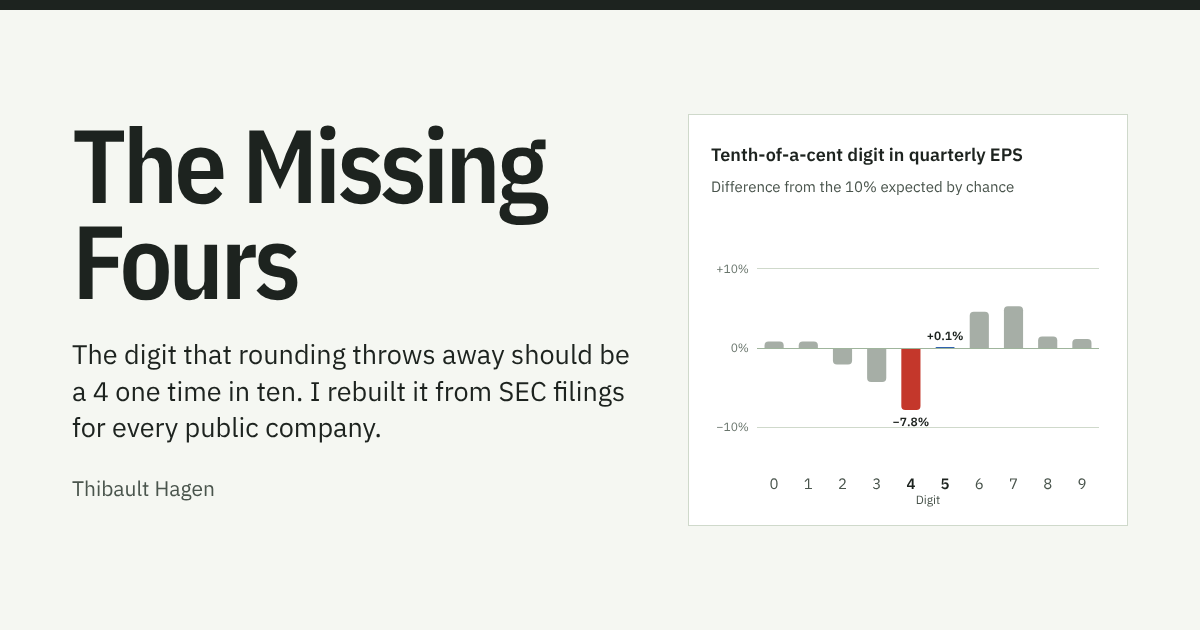
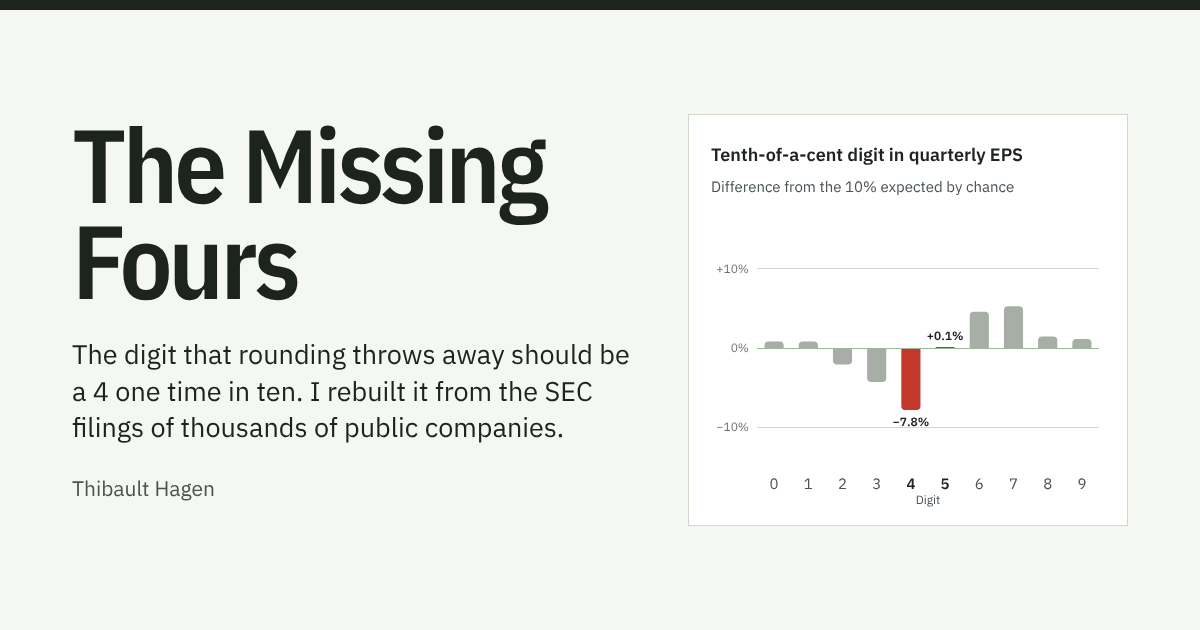
Show rebuild dates in local time, tighten wording, update README and preview image

Changed region(s): [[0.0617, 0.6032, 0.5242, 0.6937]]

diff --git a/site/index.html b/site/index.html
@@ -4,10 +4,10 @@
 <meta charset="utf-8">
 <meta name="viewport" content="width=device-width, initial-scale=1">
 <title>The Missing Fours</title>
-<meta name="description" content="Rebuilding the hidden tenth-of-a-cent digit in every US public company's earnings per share, to see whether companies round their way to the next penny.">
+<meta name="description" content="Rebuilding the hidden tenth-of-a-cent digit in U.S. public companies' earnings per share from SEC filings, to see whether companies round their way to the next penny.">
 <meta property="og:type" content="website">
 <meta property="og:title" content="The Missing Fours">
-<meta property="og:description" content="The digit that rounding throws away should be 4 one time in ten. I rebuilt it from SEC filings for every public company to check.">
+<meta property="og:description" content="The digit that rounding throws away should be 4 one time in ten. I rebuilt it from the SEC filings of thousands of public companies to check.">
 <meta property="og:image" content="https://thibault-hagen.github.io/missing-fours/og-image.png">
 <meta property="og:url" content="https://thibault-hagen.github.io/missing-fours/">
 <meta name="twitter:card" content="summary_large_image">
@@ -34,7 +34,7 @@
   <section class="wrap hero">
     <div>
       <h1>The Missing Fours</h1>
-      <p class="lede" id="lede">Companies report earnings per share rounded to the cent. I rebuilt the unrounded number from SEC filings for every public company, to look at the one digit that rounding throws away. It should be a 4 one time in ten.</p>
+      <p class="lede" id="lede">Companies report earnings per share rounded to the cent. I rebuilt the unrounded number from the SEC filings of thousands of public companies, to look at the one digit that rounding throws away. It should be a 4 one time in ten.</p>
       <p class="hero-meta" id="hero-meta">Loading the latest numbers&hellip;</p>
       <p class="byline">By Thibault Hagen</p>
     </div>
@@ -49,7 +49,7 @@
     <aside class="note"><p><strong>Why only EPS of $0.10 or more.</strong> In small numbers, low digits are more common than high ones (Benford's law). From $0.10 up, the tenth of a cent is the third significant digit or later, where every digit is within 0.2 points of 10%.</p></aside>
     <p>If nobody touched the numbers, that digit would be close to random, with each of 0 through 9 turning up about 10% of the time. A shortage of 4s, with a matching surplus of 5s, is the fingerprint of rounding up on purpose.</p>
     <p>Three finance and law researchers, one of them former SEC commissioner Joseph Grundfest, named the pattern quadrophobia. Studying company reports from 1980 to 2017, they found that 4 was the rarest digit in that spot, and that companies avoiding it were more likely to restate their results later and to face SEC enforcement or shareholder lawsuits. The SEC's Division of Enforcement uses data analytics built on the same idea. Its EPS Initiative, which announced its first cases in 2020, has been reported to screen for companies with too few 4s, and its cases include Interface, Fulton Financial, Healthcare Services Group, Rollins and Gentex.</p>
-    <p>Both of those efforts rely on paid or private data. This site rebuilds the digit from public SEC filings for every company that files them, and redoes it every week.</p>
+    <p>Both of those efforts rely on paid or private data. This site rebuilds the digit from free public SEC filings, for every company whose filings contain the numbers needed, and redoes it every week.</p>
 
     <h2 id="finding-h">What the filings show</h2>
     <div class="figure" id="fig-digits">

diff --git a/site/assets/story.js b/site/assets/story.js
@@ -100,11 +100,11 @@
       // lede reacts to the result
       const short4 = q.pchi2 < 0.001 && q.share4 < 0.1 && q.p4 < 0.001;
       $("lede").textContent =
-        "Companies report earnings per share rounded to the cent. I rebuilt the unrounded number from SEC filings for every public company, to look at the one digit that rounding throws away. It should be a 4 one time in ten. " +
+        "Companies report earnings per share rounded to the cent. I rebuilt the unrounded number from the SEC filings of thousands of public companies, to look at the one digit that rounding throws away. It should be a 4 one time in ten. " +
         (short4 ? "It isn't." : "Here is how often it actually is.");
       $("hero-meta").textContent =
-        "Rebuilt from " + MF.int(q.n) + " quarterly reports by " + MF.int(S.headline.companies) + " companies, " + span + ". Last rebuilt " + MF.date(S.built.slice(0, 10)) + ".";
-      $("built").textContent = "Last rebuilt " + MF.date(S.built.slice(0, 10)) + ".";
+        "Rebuilt from " + MF.int(q.n) + " quarterly reports by " + MF.int(S.headline.companies) + " companies, " + span + ". Last rebuilt " + MF.builtDate(S.built) + ".";
+      $("built").textContent = "Last rebuilt " + MF.builtDate(S.built) + ".";
       renderTape(S);
 
       // ----- digit chart -----
@@ -347,7 +347,7 @@
         gt.append(
           P(
             "Among large accelerated filers, " + MF.pct(lg.k4 / lg.n, 2) + " of quarters end in a 4; among non-accelerated filers, " + MF.pct(sm.k4 / sm.n, 2) + "." +
-              (sm.k4 / sm.n < lg.k4 / lg.n ? " So the smaller companies show more of the pattern, not less, although their confidence interval is wider." : "") +
+              (sm.k4 / sm.n < lg.k4 / lg.n ? " Smaller companies show at least as much of the pattern as large ones, although the gap between categories is within the margin of error." : "") +
               (offices.length ? " By industry, the lowest share is in " + offices[0].label + " (" + MF.pct(offices[0].k4 / offices[0].n, 2) + ") and the highest in " + offices[offices.length - 1].label + " (" + MF.pct(offices[offices.length - 1].k4 / offices[offices.length - 1].n, 2) + ")." : "")
           )
         );

diff --git a/site/assets/method.js b/site/assets/method.js
@@ -32,6 +32,6 @@
     if (nm && nm.up + nm.down > 0)
       document.getElementById("near-line").textContent =
         "In this data, " + Math.round((nm.up / (nm.up + nm.down)) * 100) + "% of the quarters that failed by exactly one cent ran high (" + MF.int(nm.up) + " of " + MF.int(nm.up + nm.down) + ")";
-    document.getElementById("built").textContent = "Last rebuilt " + MF.date(S.built.slice(0, 10)) + ".";
+    document.getElementById("built").textContent = "Last rebuilt " + MF.builtDate(S.built) + ".";
   });
 })();

diff --git a/site/assets/common.js b/site/assets/common.js
@@ -62,6 +62,13 @@
     });
   };
 
+  // The rebuild time is stored in UTC ("2026-10-31T11:41Z"); show it as the viewer's local date.
+  MF.builtDate = (stamp) => {
+    const t = new Date(stamp);
+    if (isNaN(t)) return MF.date(String(stamp).slice(0, 10));
+    return t.toLocaleDateString("en-US", { year: "numeric", month: "short", day: "numeric" });
+  };
+
   MF.period = (row) => {
     // row: {fp, fy, end}
     const fp = row.fp || "";

diff --git a/pipeline/analyze.py b/pipeline/analyze.py
@@ -580,7 +580,7 @@ def main():
 
     # ---- aggregate results ----
     summary = {
-        "built": datetime.now(timezone.utc).strftime("%Y-%m-%dT%H:%MZ"),
+        "built": datetime.now(timezone.utc).strftime("%Y-%m-%dT%H:%M:%SZ"),
         "min_eps": float(MIN_EPS),
         "min_quarters": MIN_QUARTERS,
         "initiative_date": INITIATIVE_DATE,

diff --git a/README.md b/README.md
@@ -1,28 +1,30 @@
 # The Missing Fours
 
 Public companies report earnings per share (EPS) rounded to the cent. This project rebuilds the
-unrounded EPS for every quarterly report in the SEC's XBRL data and looks at the digit that rounding
-throws away: the tenth of a cent. With honest numbers that digit should be 4 about 10% of the time.
-A shortage of 4s, matched by extra 5s, is the signature of companies nudging results up to the next
-cent, the same pattern the SEC's EPS Initiative uses to look for earnings management.
+unrounded EPS of every quarterly report it can from the SEC's XBRL data and looks at the digit that
+rounding throws away: the tenth of a cent. With honest numbers that digit should be 4 about 10% of the
+time. A shortage of 4s, with extra digits just past the half-cent line, is the signature of companies
+nudging results up to the next cent, the same pattern the SEC's EPS Initiative uses to look for
+earnings management.
 
 **Live site: https://thibault-hagen.github.io/missing-fours/**
 
-- **Story**: the market-wide digit distribution, the pile-up just past half a cent, losses (where
-  the incentive reverses), the trend before and after the SEC's first EPS Initiative cases, results
-  by filer size and industry, and the five companies the SEC has charged.
-- **Companies**: every company with a probability for its count of 4s, adjusted for testing
-  thousands of companies at once.
-- **Company pages**: each quarter's reported EPS, numerator, share count, rebuilt EPS and digit,
-  with a link to the filing it came from.
+- **Story**: the market-wide digit distribution and the checks on it, the slices of a cent on either
+  side of the half-cent line, losses (where the incentive reverses), the trend before and after the
+  SEC's first EPS Initiative cases, results by filer size and industry, and the five companies the
+  SEC has charged.
+- **Companies**: every company with at least one tested quarter, with two tests for those with 20 or
+  more, adjusted for testing over a thousand companies at once.
+- **Company pages**: each quarter's reported EPS, numerator, share count, rebuilt EPS and digit, with
+  a link to the filing it came from.
 
 ## How it works
 
 Everything runs on free GitHub services. Each Saturday a GitHub Actions job:
 
-1. **Downloads** the SEC's `companyfacts.zip` (every XBRL fact every company has filed) and keeps
-   the EPS facts, EPS numerators and weighted-average share counts for single quarters and full
-   years (`pipeline/extract.py`).
+1. **Downloads** the SEC's `companyfacts.zip` (every XBRL fact every company has filed) and keeps the
+   EPS facts, EPS numerators and weighted-average share counts for single quarters and full years
+   (`pipeline/extract.py`).
 2. **Keeps the first-reported version** of each period, ignoring later comparatives that may be
    restated or split-adjusted.
 3. **Recalculates EPS** as net income available to common shareholders divided by weighted-average
@@ -30,22 +32,30 @@ Everything runs on free GitHub services. Each Saturday a GitHub Actions job:
    (`pipeline/analyze.py`).
 4. **Accounts for rounded inputs.** Filings report in thousands or millions, so each EPS is a range.
    The digit is used only when the whole range agrees on it. All arithmetic uses exact fractions.
-5. **Tests the digits**: chi-square goodness of fit for the market, a binomial probability for each
-   company, Benjamini-Hochberg q-values for the multiple-testing problem, and a two-proportion z-test
-   around the SEC's September 2020 cases (`pipeline/stats.py`, no third-party libraries).
-6. **Publishes** the results to the `data` branch and redeploys GitHub Pages.
+5. **Tests the digits** (`pipeline/stats.py`, no third-party libraries):
+   - chi-square goodness of fit for the market as a whole, with a one-proportion interval for 4s;
+   - two one-sided binomial tests per company (too few 4s, too many 5s), with Benjamini-Hochberg
+     q-values across every test;
+   - a two-proportion z-test before and after the SEC's first EPS Initiative cases (September 2020).
+6. **Checks itself**:
+   - a placebo test on the next digit (the hundredth of a cent), which nobody has a reason to manage;
+   - the same test restricted to companies whose every quarter ties out, because the tie-out filter
+     is not neutral: a rebuild that runs slightly high fails exactly when a value sits next to the
+     half-cent line, which removes 5s (most one-cent failures run high, and the share is reported);
+   - basic EPS, and only quarters with the exact EPS numerator tagged.
+7. **Publishes** the results to the `data` branch and redeploys GitHub Pages.
 
-The site itself is plain HTML, CSS and JavaScript with hand-drawn SVG charts (`site/`).
+The site is plain HTML, CSS and JavaScript with hand-drawn SVG charts (`site/`).
 
 ## Repository layout
 
 ```
 pipeline/extract.py      download companyfacts.zip, keep first-reported EPS facts
-pipeline/analyze.py      rebuild unrounded EPS, read the digit, compute statistics, write JSON
+pipeline/analyze.py      rebuild unrounded EPS, read the digit, run the tests and checks, write JSON
 pipeline/stats.py        binomial, chi-square, z procedures, Benjamini-Hochberg
 pipeline/cache/          ticker list and company profiles (industry office, filer status)
-site/                    the website (GitHub Pages)
-.github/workflows/       weekly rebuild and site deploy
+site/                    the website (GitHub Pages); its data/ folder comes from the data branch
+.github/workflows/       weekly rebuild (update.yml) and site deploy (deploy.yml)
 ```
 
 ## Run it yourself
@@ -59,16 +69,18 @@ python pipeline/analyze.py      # writes site/data/
 cd site && python -m http.server 8000
 ```
 
-Then open http://localhost:8000.
+Then open http://localhost:8000. To run the GitHub workflow by hand, open the Actions tab, choose
+*Rebuild data and publish*, and press **Run workflow**.
 
 ## Limits
 
-A shortage of 4s at one company is a statistical oddity, not evidence of wrongdoing. Per-company tests
-have little power with the 20 to 60 quarters most companies have, and some companies will look unusual
-by luck alone, which is why every company page reports a false-alarm rate. Large companies that report
-both net income and shares in millions often cannot be tested, because the rounding in their inputs is
-too coarse to pin down the digit. The site tests GAAP diluted EPS; analysts' consensus usually targets
-adjusted EPS, which is not in XBRL.
+The strong result is about the market as a whole. A shortage of 4s at one company is a statistical
+oddity, not evidence of wrongdoing: most companies have 20 to 60 testable quarters, and with this many
+companies some will look unusual by luck, which is why every company page reports a false-alarm rate.
+Large companies that report both net income and shares in millions often cannot be tested, because the
+rounding in their inputs is too coarse to pin down the digit. The site tests GAAP diluted EPS; analysts'
+consensus usually targets adjusted EPS, which is not in XBRL. Loss quarters do not show the reversed
+pattern that deliberate rounding would predict, and the before-and-after comparison is observational.
 
 ## References
 
@@ -76,10 +88,13 @@ adjusted EPS, which is not in XBRL.
   *Journal of Financial and Quantitative Analysis*, 58(8), 3231-3273.
 - Das, S., and Zhang, H. (2003). Rounding-up in reported EPS, behavioral thresholds, and earnings
   management. *Journal of Accounting and Economics*, 35(1), 31-50.
+- Degeorge, F., Patel, J., and Zeckhauser, R. (1999). Earnings management to exceed thresholds.
+  *Journal of Business*, 72(1), 1-33.
 - SEC press releases [2020-226](https://www.sec.gov/news/press-release/2020-226),
   [2021-162](https://www.sec.gov/news/press-release/2021-162),
   [2022-64](https://www.sec.gov/news/press-release/2022-64) and
   [Release 34-96819](https://www.sec.gov/enforce/34-96819-s).
+- SEC [Staff Accounting Bulletin No. 99](https://www.sec.gov/interps/account/sab99.htm), Materiality.
 - SEC [EDGAR application programming interfaces](https://www.sec.gov/edgar/sec-api-documentation).
 
 Built by Thibault Hagen.
